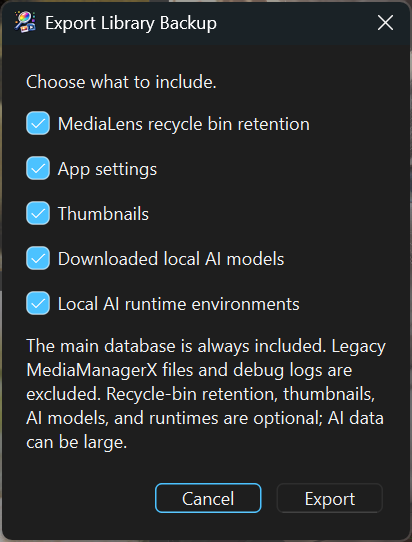
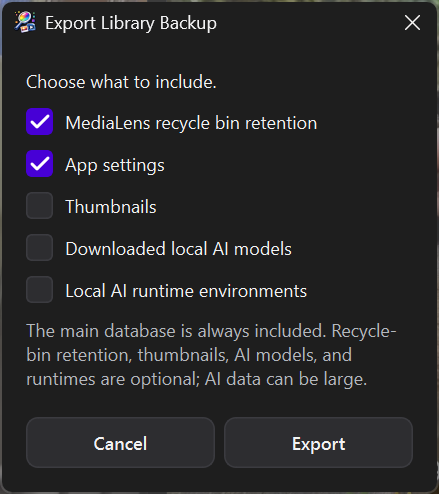
Added Action History to README. Added Screenshot for Action History. Replaced screenshot for Export Library Backup

diff --git a/README.md b/README.md
@@ -233,7 +233,7 @@ Your library is safe and portable.
 
 Includes automatic safety backups before restore.
 
-![Gallery](docs/Screenshots/Screenshot-Export-Library-Backup.png)
+![Backup & Restore](docs/Screenshots/Screenshot-Export-Library-Backup.png)
 
 ---
 
@@ -254,6 +254,20 @@ Built for thousands of files without slowing down.
 - Drag-and-drop between folders
 - Flexible filtering and sorting
 - Clean, responsive UI
+
+---
+
+### Action History
+
+Review and recover previous actions with persistent undo and redo history.
+
+- Undo or redo deletes, moves, copies, renames, folder creation, metadata edits, rotations, and hidden-status changes
+- Supports both bulk actions and single-file edits
+- Clearly shows what can still be undone or redone
+- Explains when recovery is no longer possible
+- Works with MediaLens Retention and the Windows Recycle Bin
+
+![Action History](docs/Screenshots/Screenshot-Action-History.png)
 
 ---
 
